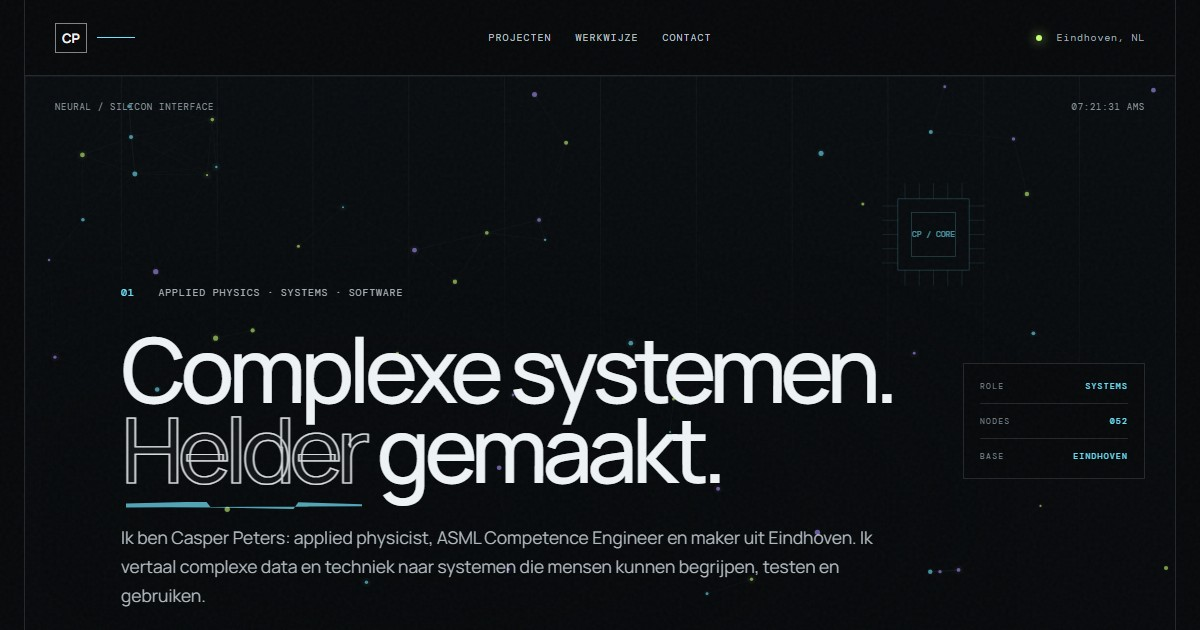
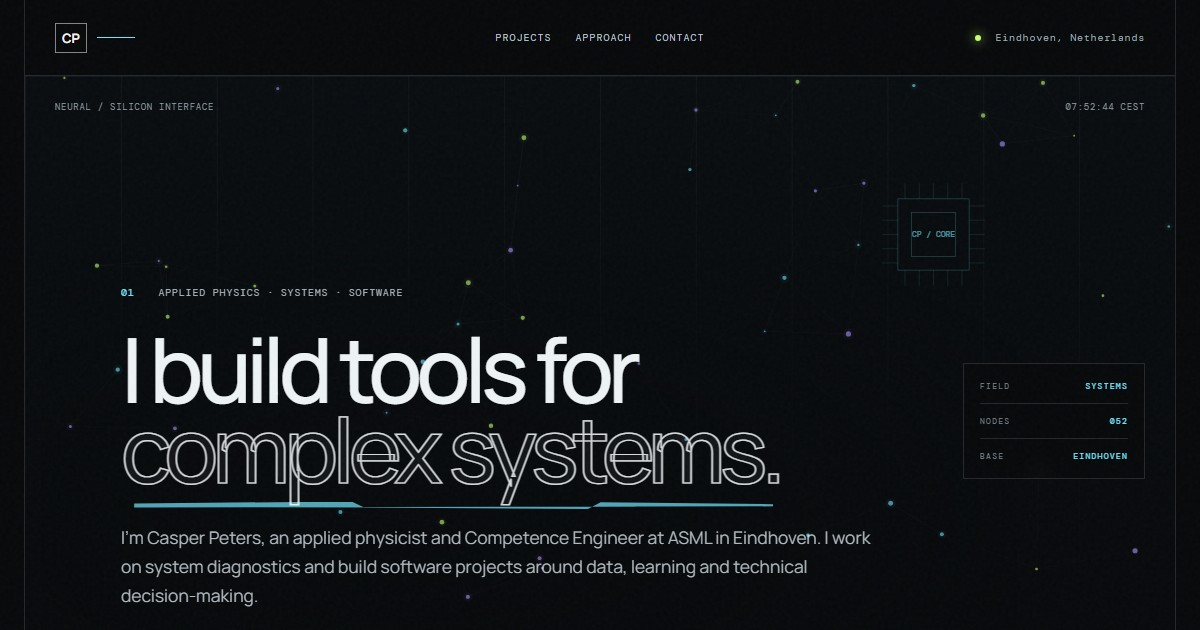
Switch portfolio to restrained English copy

diff --git a/index.html b/index.html
@@ -1,40 +1,40 @@
 <!doctype html>
-<html lang="nl">
+<html lang="en">
 <head>
   <meta charset="UTF-8" />
   <meta name="viewport" content="width=device-width, initial-scale=1.0" />
-  <meta name="description" content="Portfolio van Casper Peters — applied physicist en systems builder uit Eindhoven. Neurophysics, Bridgetafel en MigratieMonitor." />
+  <meta name="description" content="Portfolio of Casper Peters, an applied physicist and systems engineer based in Eindhoven." />
   <meta name="theme-color" content="#07090b" />
   <meta property="og:type" content="website" />
-  <meta property="og:locale" content="nl_NL" />
+  <meta property="og:locale" content="en_GB" />
   <meta property="og:url" content="https://casperpeters.github.io/cp-neural-portfolio/" />
-  <meta property="og:title" content="Casper Peters — complexe systemen, helder gemaakt" />
-  <meta property="og:description" content="Van whole-brain neurale data tot leerproducten en live CBS-dashboards: drie systemen, met bewijs." />
+  <meta property="og:title" content="Casper Peters — applied physics, systems and software" />
+  <meta property="og:description" content="Selected work in neurophysics, learning software and public data." />
   <meta property="og:image" content="https://casperpeters.github.io/cp-neural-portfolio/assets/og-cover.jpg" />
   <meta property="og:image:width" content="1200" />
   <meta property="og:image:height" content="630" />
-  <meta property="og:image:alt" content="Portfolio van Casper Peters — complexe systemen, helder gemaakt" />
+  <meta property="og:image:alt" content="Portfolio of Casper Peters" />
   <meta name="twitter:card" content="summary_large_image" />
   <meta name="twitter:image" content="https://casperpeters.github.io/cp-neural-portfolio/assets/og-cover.jpg" />
   <link rel="canonical" href="https://casperpeters.github.io/cp-neural-portfolio/" />
-  <title>Casper Peters — complexe systemen, helder gemaakt</title>
+  <title>Casper Peters — applied physics, systems and software</title>
   <link rel="preconnect" href="https://fonts.googleapis.com">
   <link rel="preconnect" href="https://fonts.gstatic.com" crossorigin>
   <link href="https://fonts.googleapis.com/css2?family=DM+Mono:wght@300;400;500&family=Manrope:wght@400;500;600;700&display=swap" rel="stylesheet">
   <link rel="stylesheet" href="styles.css" />
 </head>
 <body>
-  <a class="skip-link" href="#work">Ga naar geselecteerd werk</a>
+  <a class="skip-link" href="#work">Skip to selected projects</a>
   <div class="grain" aria-hidden="true"></div>
 
   <header class="topbar shell">
-    <a class="mark" href="#top" aria-label="Naar boven"><span>CP</span><i></i></a>
-    <nav aria-label="Hoofdnavigatie">
-      <a href="#work">Projecten</a>
-      <a href="#principles">Werkwijze</a>
+    <a class="mark" href="#top" aria-label="Back to top"><span>CP</span><i></i></a>
+    <nav aria-label="Main navigation">
+      <a href="#work">Projects</a>
+      <a href="#approach">Approach</a>
       <a href="#contact">Contact</a>
     </nav>
-    <div class="status"><span></span> Eindhoven, NL</div>
+    <div class="status"><span></span> Eindhoven, Netherlands</div>
   </header>
 
   <main id="top">
@@ -44,21 +44,21 @@
 
       <div class="signal-legend mono">
         <span>NEURAL / SILICON INTERFACE</span>
-        <span id="clock">00:00:00 AMS</span>
+        <span id="clock">00:00:00 CET</span>
       </div>
 
       <div class="hero-copy">
         <p class="eyebrow mono"><span>01</span> APPLIED PHYSICS · SYSTEMS · SOFTWARE</p>
-        <h1>Complexe systemen.<br><em>Helder</em> gemaakt.</h1>
-        <p class="intro">Ik ben Casper Peters: applied physicist, ASML Competence Engineer en maker uit Eindhoven. Ik vertaal complexe data en techniek naar systemen die mensen kunnen begrijpen, testen en gebruiken.</p>
+        <h1>I build tools for<br><em>complex systems.</em></h1>
+        <p class="intro">I'm Casper Peters, an applied physicist and Competence Engineer at ASML in Eindhoven. I work on system diagnostics and build software projects around data, learning and technical decision-making.</p>
         <div class="hero-actions">
-          <a class="button primary" href="#work">Bekijk het bewijs <span>↘</span></a>
+          <a class="button primary" href="#work">Selected projects <span>↘</span></a>
           <a class="button ghost" href="https://www.linkedin.com/in/casper-peters-a29796209" target="_blank" rel="noreferrer">LinkedIn <span>↗</span></a>
         </div>
       </div>
 
-      <aside class="telemetry mono" aria-label="Profiel in het kort">
-        <div><span>ROLE</span><b>SYSTEMS</b></div>
+      <aside class="telemetry mono" aria-label="Profile summary">
+        <div><span>FIELD</span><b>SYSTEMS</b></div>
         <div><span>NODES</span><b id="node-count">042</b></div>
         <div><span>BASE</span><b>EINDHOVEN</b></div>
       </aside>
@@ -68,26 +68,19 @@
       </button>
     </section>
 
-    <section class="proof-strip shell" aria-label="Kernbewijs">
-      <div><strong>8,4</strong><span class="mono">MSc Neurophysics</span></div>
-      <div><strong>~100k</strong><span class="mono">neuronen geanalyseerd</span></div>
-      <div><strong>eLife</strong><span class="mono">peer-reviewed co-auteur</span></div>
-      <div><strong>3</strong><span class="mono">publieke systemen</span></div>
-    </section>
-
     <section class="statement shell" id="about">
-      <p class="section-tag mono"><span>02</span> VAN ONDUIDELIJK NAAR BRUIKBAAR</p>
+      <p class="section-tag mono"><span>02</span> ABOUT</p>
       <div class="statement-grid">
-        <h2>Van whole-brain data tot bridgebeslissingen en live CBS-cijfers.</h2>
+        <h2>A background in physics, diagnostics and software.</h2>
         <div class="body-copy">
-          <p>Mijn werk begint meestal waar het overzicht verdwijnt: veel variabelen, onvolledige informatie en meerdere mogelijke verklaringen.</p>
-          <p>Ik maak het probleem expliciet, bouw een testbaar model of product en zorg dat de uitkomst ook voor anderen te volgen is.</p>
+          <p>I work on technical problems with many interacting parts, incomplete information and more than one plausible explanation.</p>
+          <p>Outside my day job, I build small public projects to explore subjects I find useful or interesting.</p>
         </div>
       </div>
-      <div class="capabilities mono" aria-label="Expertise">
+      <div class="capabilities mono" aria-label="Areas of work">
         <span>SYSTEM DIAGNOSTICS</span>
         <span>DATA & MODELLING</span>
-        <span>PRODUCT PROTOTYPING</span>
+        <span>SOFTWARE PROJECTS</span>
         <span>TECHNICAL COORDINATION</span>
       </div>
     </section>
@@ -96,106 +89,105 @@
       <div class="section-head">
         <div>
           <p class="section-tag mono"><span>03</span> SELECTED WORK</p>
-          <h2>Drie projecten.<br><span>Drie soorten bewijs.</span></h2>
+          <h2>Three selected projects.</h2>
         </div>
-        <p class="mono microcopy">REAL OUTPUT · PUBLIC LINKS · NO DEMO DATA</p>
       </div>
 
       <article class="case case-featured" id="neurophysics">
         <div class="case-visual paper-visual">
-          <img src="assets/projects/neurophysics-rtrbm.jpg" alt="Wetenschappelijke figuur met het RTRBM-model, netwerkdiagrammen, gewichtsmatrices en modelvergelijkingen" width="1246" height="1446">
+          <img src="assets/projects/neurophysics-rtrbm.jpg" alt="Scientific figure showing the RTRBM model, network diagrams, weight matrices and model comparisons" width="1246" height="1446">
           <div class="visual-label mono"><span>FIGURE / RTRBM</span><span>NEUROPHYSICS</span></div>
         </div>
         <div class="case-content">
           <div class="case-index mono">PROJECT / 01 · MSc RESEARCH</div>
           <div class="case-title-row">
-            <h3>Neurale dynamiek modelleren</h3>
+            <h3>Modelling neural dynamics</h3>
             <span class="case-year mono">2020—2022</span>
           </div>
-          <p class="case-lede">Hoe vind je terugkerende temporele patronen in whole-brain activiteit van ongeveer 100.000 neuronen?</p>
+          <p class="case-lede">My MSc research looked at temporal structure in whole-brain neural recordings from zebrafish.</p>
           <div class="evidence-grid">
-            <div><span class="mono">VRAAGSTUK</span><p>Hoogdimensionale hersendata reduceren tot interpreteerbare neurale assemblies én hun dynamiek in de tijd.</p></div>
-            <div><span class="mono">MIJN BIJDRAGE</span><p>Python-analyse, dimensionality reduction en machine-learningexperimenten op GPU-systemen, in samenwerking met meerdere onderzoekers.</p></div>
-            <div><span class="mono">BEWIJS</span><p>Het MSc-onderzoek groeide door tot een peer-reviewed eLife-publicatie waarop ik co-auteur ben; code en reproduceerbare artefacten zijn publiek.</p></div>
+            <div><span class="mono">CONTEXT</span><p>The recordings contained activity from roughly 100,000 neurons. The task was to identify neural assemblies and describe how their activity changed over time.</p></div>
+            <div><span class="mono">WORK</span><p>I analysed the data in Python, used dimensionality reduction and ran machine learning experiments on GPU systems.</p></div>
+            <div><span class="mono">OUTPUT</span><p>The research contributed to a peer-reviewed eLife paper. The associated code and data are public.</p></div>
           </div>
           <div class="case-tags mono"><span>PYTHON</span><span>PYTORCH</span><span>GPU</span><span>PROBABILISTIC ML</span></div>
           <div class="case-actions">
-            <a class="text-link" href="https://elifesciences.org/articles/98489" target="_blank" rel="noreferrer">Lees de eLife-publicatie <span>↗</span></a>
-            <a class="text-link muted-link" href="https://github.com/benglitz/Zebrafish_RTRBM" target="_blank" rel="noreferrer">Bekijk code & data <span>↗</span></a>
+            <a class="text-link" href="https://elifesciences.org/articles/98489" target="_blank" rel="noreferrer">Read the eLife paper <span>↗</span></a>
+            <a class="text-link muted-link" href="https://github.com/benglitz/Zebrafish_RTRBM" target="_blank" rel="noreferrer">View code and data <span>↗</span></a>
           </div>
-          <p class="source-caption">Figuur uit de bijbehorende openbare preprint/publicatie: Quiroz Monnens, Peters et al.</p>
+          <p class="source-caption">Figure from the associated public preprint and paper: Quiroz Monnens, Peters et al.</p>
         </div>
       </article>
 
       <article class="case" id="bridgetafel">
         <div class="case-visual">
-          <img src="assets/projects/bridgetafel.jpg" alt="Werkende Bridgetafel-interface met groene speeltafel, speelkaarten, biedbox en biedverloop" width="1262" height="624">
-          <div class="visual-label mono"><span>LIVE PRODUCT</span><span>LEARNING SYSTEM</span></div>
+          <img src="assets/projects/bridgetafel.jpg" alt="Bridgetafel interface with a green card table, playing cards, bidding controls and bidding history" width="1262" height="624">
+          <div class="visual-label mono"><span>LIVE PRODUCT</span><span>BRIDGE LEARNING</span></div>
         </div>
         <div class="case-content">
-          <div class="case-index mono">PROJECT / 02 · INDEPENDENT PRODUCT</div>
+          <div class="case-index mono">PROJECT / 02 · INDEPENDENT PROJECT</div>
           <div class="case-title-row">
             <h3>Bridgetafel</h3>
             <span class="case-year mono">ACTIVE</span>
           </div>
-          <p class="case-lede">Bridge leer je niet door alleen regels te lezen. Je moet beslissen, spelen, terugkijken en begrijpen waarom.</p>
+          <p class="case-lede">An interactive web app for learning bridge through short lessons, practice hands and complete deals.</p>
           <div class="evidence-grid">
-            <div><span class="mono">VRAAGSTUK</span><p>Een complexe kaartdiscipline toegankelijk maken zonder de beginner te overspoelen met uitleg en conventies.</p></div>
-            <div><span class="mono">MIJN BIJDRAGE</span><p>Zelfstandig productontwerp en ontwikkeling: NBB Vijfkaart Hoog-logica, oefenhanden, bied- en speelverklaringen, lessen en feedbackflow.</p></div>
-            <div><span class="mono">BEWIJS</span><p>Een werkende responsive app waarin je biedt, alle 13 slagen speelt en daarna contract, score en beslissingen reviewt — bewaakt met unit- en Playwright-tests.</p></div>
+            <div><span class="mono">CONTEXT</span><p>Bridge beginners need to learn rules and conventions while also making decisions at the table.</p></div>
+            <div><span class="mono">WORK</span><p>I designed and built the app, including Dutch NBB Five-card Major bidding logic, practice hands, explanations and the review flow.</p></div>
+            <div><span class="mono">CURRENT VERSION</span><p>The public version covers bidding, all 13 tricks and a post-game review of the contract, score and key decisions. Unit and Playwright tests cover the main flows.</p></div>
           </div>
           <div class="case-tags mono"><span>VANILLA JS</span><span>DOMAIN LOGIC</span><span>PLAYWRIGHT</span><span>BEGINNER UX</span></div>
           <div class="case-actions">
-            <a class="text-link" href="https://casperpeters.github.io/bridge/" target="_blank" rel="noreferrer">Speel de live app <span>↗</span></a>
-            <a class="text-link muted-link" href="https://github.com/casperpeters/bridge" target="_blank" rel="noreferrer">Bekijk de broncode <span>↗</span></a>
+            <a class="text-link" href="https://casperpeters.github.io/bridge/" target="_blank" rel="noreferrer">Open the live app <span>↗</span></a>
+            <a class="text-link muted-link" href="https://github.com/casperpeters/bridge" target="_blank" rel="noreferrer">View source <span>↗</span></a>
           </div>
         </div>
       </article>
 
       <article class="case" id="migratiemonitor">
         <div class="case-visual">
-          <img src="assets/projects/migratiemonitor.jpg" alt="MigratieMonitor-dashboard met live CBS-status, kerncijfers en navigatie naar trends en herkomstdata" width="1200" height="630">
-          <div class="visual-label mono"><span>LIVE DATA</span><span>PUBLIC INTEREST</span></div>
+          <img src="assets/projects/migratiemonitor.jpg" alt="MigratieMonitor dashboard with current CBS status, headline figures and links to trends and origin data" width="1200" height="630">
+          <div class="visual-label mono"><span>LIVE DATA</span><span>PERSONAL PROJECT</span></div>
         </div>
         <div class="case-content">
-          <div class="case-index mono">PROJECT / 03 · DATA PRODUCT</div>
+          <div class="case-index mono">PROJECT / 03 · DATA PROJECT</div>
           <div class="case-title-row">
             <h3>MigratieMonitor</h3>
             <span class="case-year mono">2026</span>
           </div>
-          <p class="case-lede">Publieke migratiedata is beschikbaar, maar tabellen en definities maken het lastig om snel te zien wat er werkelijk verandert.</p>
+          <p class="case-lede">A static dashboard that reads current Dutch migration statistics directly from CBS StatLine.</p>
           <div class="evidence-grid">
-            <div><span class="mono">VRAAGSTUK</span><p>Maandcijfers, herkomstlanden en migratiemotieven begrijpelijk combineren zonder verschillende CBS-definities door elkaar te halen.</p></div>
-            <div><span class="mono">MIJN BIJDRAGE</span><p>Zelfstandig end-to-end gebouwd: dataselectie, client-side OData-transformaties, visualisatie, responsive UI, checks en GitHub Pages-deployment.</p></div>
-            <div><span class="mono">BEWIJS</span><p>Een publiek live dashboard op CBS StatLine-tabellen 85484NED en 84809NED, met trends, kerncijfers, herkomst en migratiemotief.</p></div>
+            <div><span class="mono">CONTEXT</span><p>The relevant CBS statistics are split across datasets with different time periods and scopes. Monthly national figures and annual migration motives need to remain distinct.</p></div>
+            <div><span class="mono">WORK</span><p>I selected the datasets and built the client-side OData transforms, charts, responsive interface and GitHub Pages deployment.</p></div>
+            <div><span class="mono">CURRENT VERSION</span><p>The dashboard shows monthly trends, origin regions and countries, and annual migration motives, with links to the underlying CBS tables.</p></div>
           </div>
           <div class="case-tags mono"><span>CBS ODATA</span><span>DATA UX</span><span>CHART.JS</span><span>GITHUB PAGES</span></div>
           <div class="case-actions">
-            <a class="text-link" href="https://casperpeters.github.io/cbs-migratie-dashboard/" target="_blank" rel="noreferrer">Open het live dashboard <span>↗</span></a>
-            <a class="text-link muted-link" href="https://github.com/casperpeters/cbs-migratie-dashboard" target="_blank" rel="noreferrer">Bekijk de broncode <span>↗</span></a>
+            <a class="text-link" href="https://casperpeters.github.io/cbs-migratie-dashboard/" target="_blank" rel="noreferrer">Open the dashboard <span>↗</span></a>
+            <a class="text-link muted-link" href="https://github.com/casperpeters/cbs-migratie-dashboard" target="_blank" rel="noreferrer">View source <span>↗</span></a>
           </div>
         </div>
       </article>
     </section>
 
-    <section class="principles-section shell" id="principles">
-      <p class="section-tag mono"><span>04</span> OPERATING PRINCIPLES</p>
+    <section class="principles-section shell" id="approach">
+      <p class="section-tag mono"><span>04</span> APPROACH</p>
       <div class="principles-head">
-        <h2>Technische diepgang.<br>Menselijke richting.</h2>
-        <p>De projecten verschillen sterk in domein. De manier van werken blijft hetzelfde.</p>
+        <h2>How I tend to work.</h2>
+        <p>Most of my work starts by making an unclear technical problem concrete enough to test.</p>
       </div>
       <div class="principles-grid">
-        <div><span class="mono">01 / FRAME</span><h3>Maak het probleem scherp</h3><p>Definities, aannames en succescriteria eerst. Anders optimaliseer je vooral verwarring.</p></div>
-        <div><span class="mono">02 / BUILD</span><h3>Bouw iets testbaars</h3><p>Een model, prototype of dataproduct maakt abstracte discussies concreet en falsifieerbaar.</p></div>
-        <div><span class="mono">03 / TRANSFER</span><h3>Laat anderen verder kunnen</h3><p>Goede techniek is uitlegbaar, reproduceerbaar en bruikbaar zonder de maker ernaast.</p></div>
+        <div><span class="mono">01 / DEFINE</span><h3>Define the problem</h3><p>Write down the terms, assumptions and constraints before choosing a solution.</p></div>
+        <div><span class="mono">02 / TEST</span><h3>Build something testable</h3><p>A model or small working product usually answers more than another round of abstract discussion.</p></div>
+        <div><span class="mono">03 / EXPLAIN</span><h3>Make it understandable</h3><p>Document the choices and limitations so someone else can inspect or continue the work.</p></div>
       </div>
     </section>
 
     <section class="contact shell" id="contact">
       <div class="contact-glow" aria-hidden="true"></div>
-      <p class="section-tag mono"><span>05</span> OPEN CHANNEL</p>
-      <h2>Een complex systeem<br>dat helderder moet?</h2>
-      <p class="contact-intro">Ik praat graag over systems engineering, diagnostics, technische projecten en producten die moeilijke materie bruikbaar maken.</p>
+      <p class="section-tag mono"><span>05</span> CONTACT</p>
+      <h2>Want to get in touch?</h2>
+      <p class="contact-intro">Feel free to contact me about systems engineering, diagnostics, applied data work or one of the projects above.</p>
       <a href="mailto:[email redacted]" class="contact-link">[email redacted] <span>↗</span></a>
       <div class="contact-footer mono">
         <a href="https://www.linkedin.com/in/casper-peters-a29796209" target="_blank" rel="noreferrer">LINKEDIN ↗</a>
@@ -205,6 +197,6 @@
     </section>
   </main>
 
-  <script src="app.js?v=9"></script>
+  <script src="app.js?v=10"></script>
 </body>
 </html>

diff --git a/styles.css b/styles.css
@@ -182,13 +182,6 @@ h1 em::after {
 .motion-toggle { position: absolute; z-index: 4; right: 30px; bottom: 27px; border: 0; background: transparent; color: #8f9aa1; font: 9px var(--mono); letter-spacing: .08em; cursor: pointer; }
 .toggle-icon { color: var(--cyan); margin-right: 8px; }
 
-/* Proof */
-.proof-strip { display: grid; grid-template-columns: repeat(4, 1fr); border-bottom: 1px solid var(--line); }
-.proof-strip div { min-height: 138px; padding: 28px 32px; display: flex; flex-direction: column; justify-content: space-between; border-right: 1px solid var(--line); }
-.proof-strip div:last-child { border-right: 0; }
-.proof-strip strong { font-size: clamp(28px, 3vw, 45px); font-weight: 500; letter-spacing: -.045em; color: var(--ink); }
-.proof-strip span { color: #adb7bc; font-size: 9px; line-height: 1.5; }
-
 /* Intro statement */
 .statement, .work, .principles-section { padding: 92px clamp(30px, 8vw, 112px); border-bottom: 1px solid var(--line); }
 .statement-grid { display: grid; grid-template-columns: 1.18fr .82fr; gap: 9vw; align-items: start; }
@@ -208,10 +201,10 @@ h1 em::after {
 .case { border: 1px solid var(--line); background: linear-gradient(135deg, rgba(255, 255, 255, .018), transparent); margin-top: 18px; overflow: hidden; transition: border-color .3s ease, background .3s ease; }
 .case:hover { border-color: rgba(110, 231, 255, .4); background: rgba(110, 231, 255, .018); }
 .case-visual { position: relative; aspect-ratio: 1.92 / 1; overflow: hidden; border-bottom: 1px solid var(--line); background: #0c1013; }
-.case-visual img { width: 100%; height: 100%; object-fit: cover; transition: transform .65s cubic-bezier(.2, .8, .2, 1), filter .4s ease; filter: saturate(.88) brightness(.88); }
-.case:hover .case-visual img { transform: scale(1.015); filter: saturate(1) brightness(.96); }
+.case-visual img { width: 100%; height: 100%; object-fit: contain; object-position: center; transition: filter .4s ease; filter: saturate(.88) brightness(.88); }
+.case:hover .case-visual img { filter: saturate(1) brightness(.96); }
 .paper-visual { background: #eff1f0; }
-.paper-visual img { object-fit: cover; object-position: center; filter: saturate(.78) contrast(1.02); }
+.paper-visual img { object-fit: contain; object-position: center; filter: saturate(.78) contrast(1.02); }
 .visual-label { position: absolute; left: 18px; right: 18px; bottom: 16px; display: flex; justify-content: space-between; color: #fff; font-size: 9px; text-shadow: 0 1px 9px rgba(0, 0, 0, .95); }
 .paper-visual .visual-label { color: #11171a; text-shadow: 0 1px 8px rgba(255, 255, 255, .9); }
 .case-content { padding: clamp(28px, 4vw, 54px); }
@@ -261,10 +254,10 @@ h1 em::after {
 .contact-glow { position: absolute; width: 620px; height: 620px; border-radius: 50%; right: -100px; top: -190px; background: radial-gradient(circle, rgba(110, 231, 255, .65), transparent 65%); filter: blur(10px); }
 
 @media (min-width: 940px) {
-  .case { display: grid; grid-template-columns: minmax(0, .94fr) minmax(0, 1.06fr); }
-  .case-featured { grid-template-columns: minmax(0, 1.04fr) minmax(0, .96fr); }
-  .case-visual { aspect-ratio: auto; min-height: 100%; border-right: 1px solid var(--line); border-bottom: 0; }
-  .paper-visual img { position: sticky; top: 0; }
+  .evidence-grid { grid-template-columns: repeat(3, minmax(0, 1fr)); }
+  .evidence-grid > div { padding: 20px 24px 22px 0; border-right: 1px solid var(--line); border-bottom: 0; }
+  .evidence-grid > div + div { padding-left: 24px; }
+  .evidence-grid > div:last-child { border-right: 0; }
 }
 
 @media (max-width: 939px) {
@@ -277,9 +270,7 @@ h1 em::after {
   .intro { font-size: 15px; max-width: 650px; }
   .telemetry { display: none; }
   .signal-legend { left: 20px; right: 20px; }
-  .proof-strip { grid-template-columns: 1fr 1fr; }
-  .proof-strip div:nth-child(2) { border-right: 0; }
-  .proof-strip div:nth-child(-n+2) { border-bottom: 1px solid var(--line); }
+
   .statement, .work, .principles-section { padding: 70px 22px; }
   .statement-grid, .principles-head { grid-template-columns: 1fr; gap: 40px; }
   .capabilities { grid-template-columns: 1fr 1fr; margin-top: 55px; }
@@ -307,7 +298,7 @@ h1 em::after {
   .button { padding: 13px 15px; }
   .signal-legend span:first-child { display: none; }
   .signal-legend { justify-content: flex-end; }
-  .proof-strip div { min-height: 116px; padding: 22px 18px; }
+
   .statement h2, .work h2, .principles-section h2 { font-size: 38px; }
   .section-head { align-items: start; margin-bottom: 30px; }
   .microcopy { display: none; }
@@ -320,7 +311,7 @@ h1 em::after {
   .case-visual img { object-position: center; }
   .case-visual:not(.paper-visual) img { object-fit: contain; }
   .paper-visual { aspect-ratio: 1.2 / 1; }
-  .paper-visual img { object-fit: cover; }
+  .paper-visual img { object-fit: contain; }
   .visual-label { left: 12px; right: 12px; bottom: 10px; font-size: 7px; }
   .text-link { width: 100%; justify-content: space-between; }
   .capabilities { grid-template-columns: 1fr; }

diff --git a/app.js b/app.js
@@ -395,10 +395,10 @@
   });
 
   function tickClock() {
-    clock.textContent = new Intl.DateTimeFormat('nl-NL', {
+    clock.textContent = new Intl.DateTimeFormat('en-GB', {
       timeZone: 'Europe/Amsterdam', hour: '2-digit', minute: '2-digit',
-      second: '2-digit', hour12: false
-    }).format(new Date()) + ' AMS';
+      second: '2-digit', hour12: false, timeZoneName: 'short'
+    }).format(new Date());
   }
 
   tickClock();

diff --git a/README.md b/README.md
@@ -1,16 +1,16 @@
 # Casper Peters — portfolio
 
-Publieke persoonlijke portfoliosite van Casper Peters: applied physicist, systems builder en ASML Competence Engineer uit Eindhoven.
+Personal portfolio of Casper Peters, an applied physicist and Competence Engineer based in Eindhoven.
 
 **Live:** <https://casperpeters.github.io/cp-neural-portfolio/>
 
-## Cases
+## Selected projects
 
-- Neurophysics — recurrent temporal Restricted Boltzmann Machines voor whole-brain zebravisdata.
-- Bridgetafel — interactief leerproduct voor bridgebeginners.
-- MigratieMonitor — live CBS-migratiedata als transparant dataproduct.
+- Neurophysics: recurrent temporal Restricted Boltzmann Machines for whole-brain zebrafish data.
+- Bridgetafel: an interactive learning app for bridge beginners.
+- MigratieMonitor: a static dashboard using current CBS migration data.
 
-## Lokaal draaien
+## Run locally
 
 ```bash
 python -m http.server 4173 --bind 127.0.0.1
@@ -18,9 +18,9 @@ python -m http.server 4173 --bind 127.0.0.1
 
 Open <http://127.0.0.1:4173>.
 
-## Interactie en toegankelijkheid
+## Interaction and accessibility
 
-- Cursorbeweging en klikken activeren het neural/silicon-signaal.
-- `Pause signal` stopt de animatie.
-- `prefers-reduced-motion`, toetsenbordfocus en een skiplink worden ondersteund.
-- Responsive getest op 320, 390, 768 en 1280 pixels.
+- Pointer movement and clicks activate the neural/silicon signal.
+- `Pause signal` stops the animation.
+- The site supports `prefers-reduced-motion`, keyboard focus and a skip link.
+- Responsive layouts are tested at 320, 390, 768 and 1280 pixels.